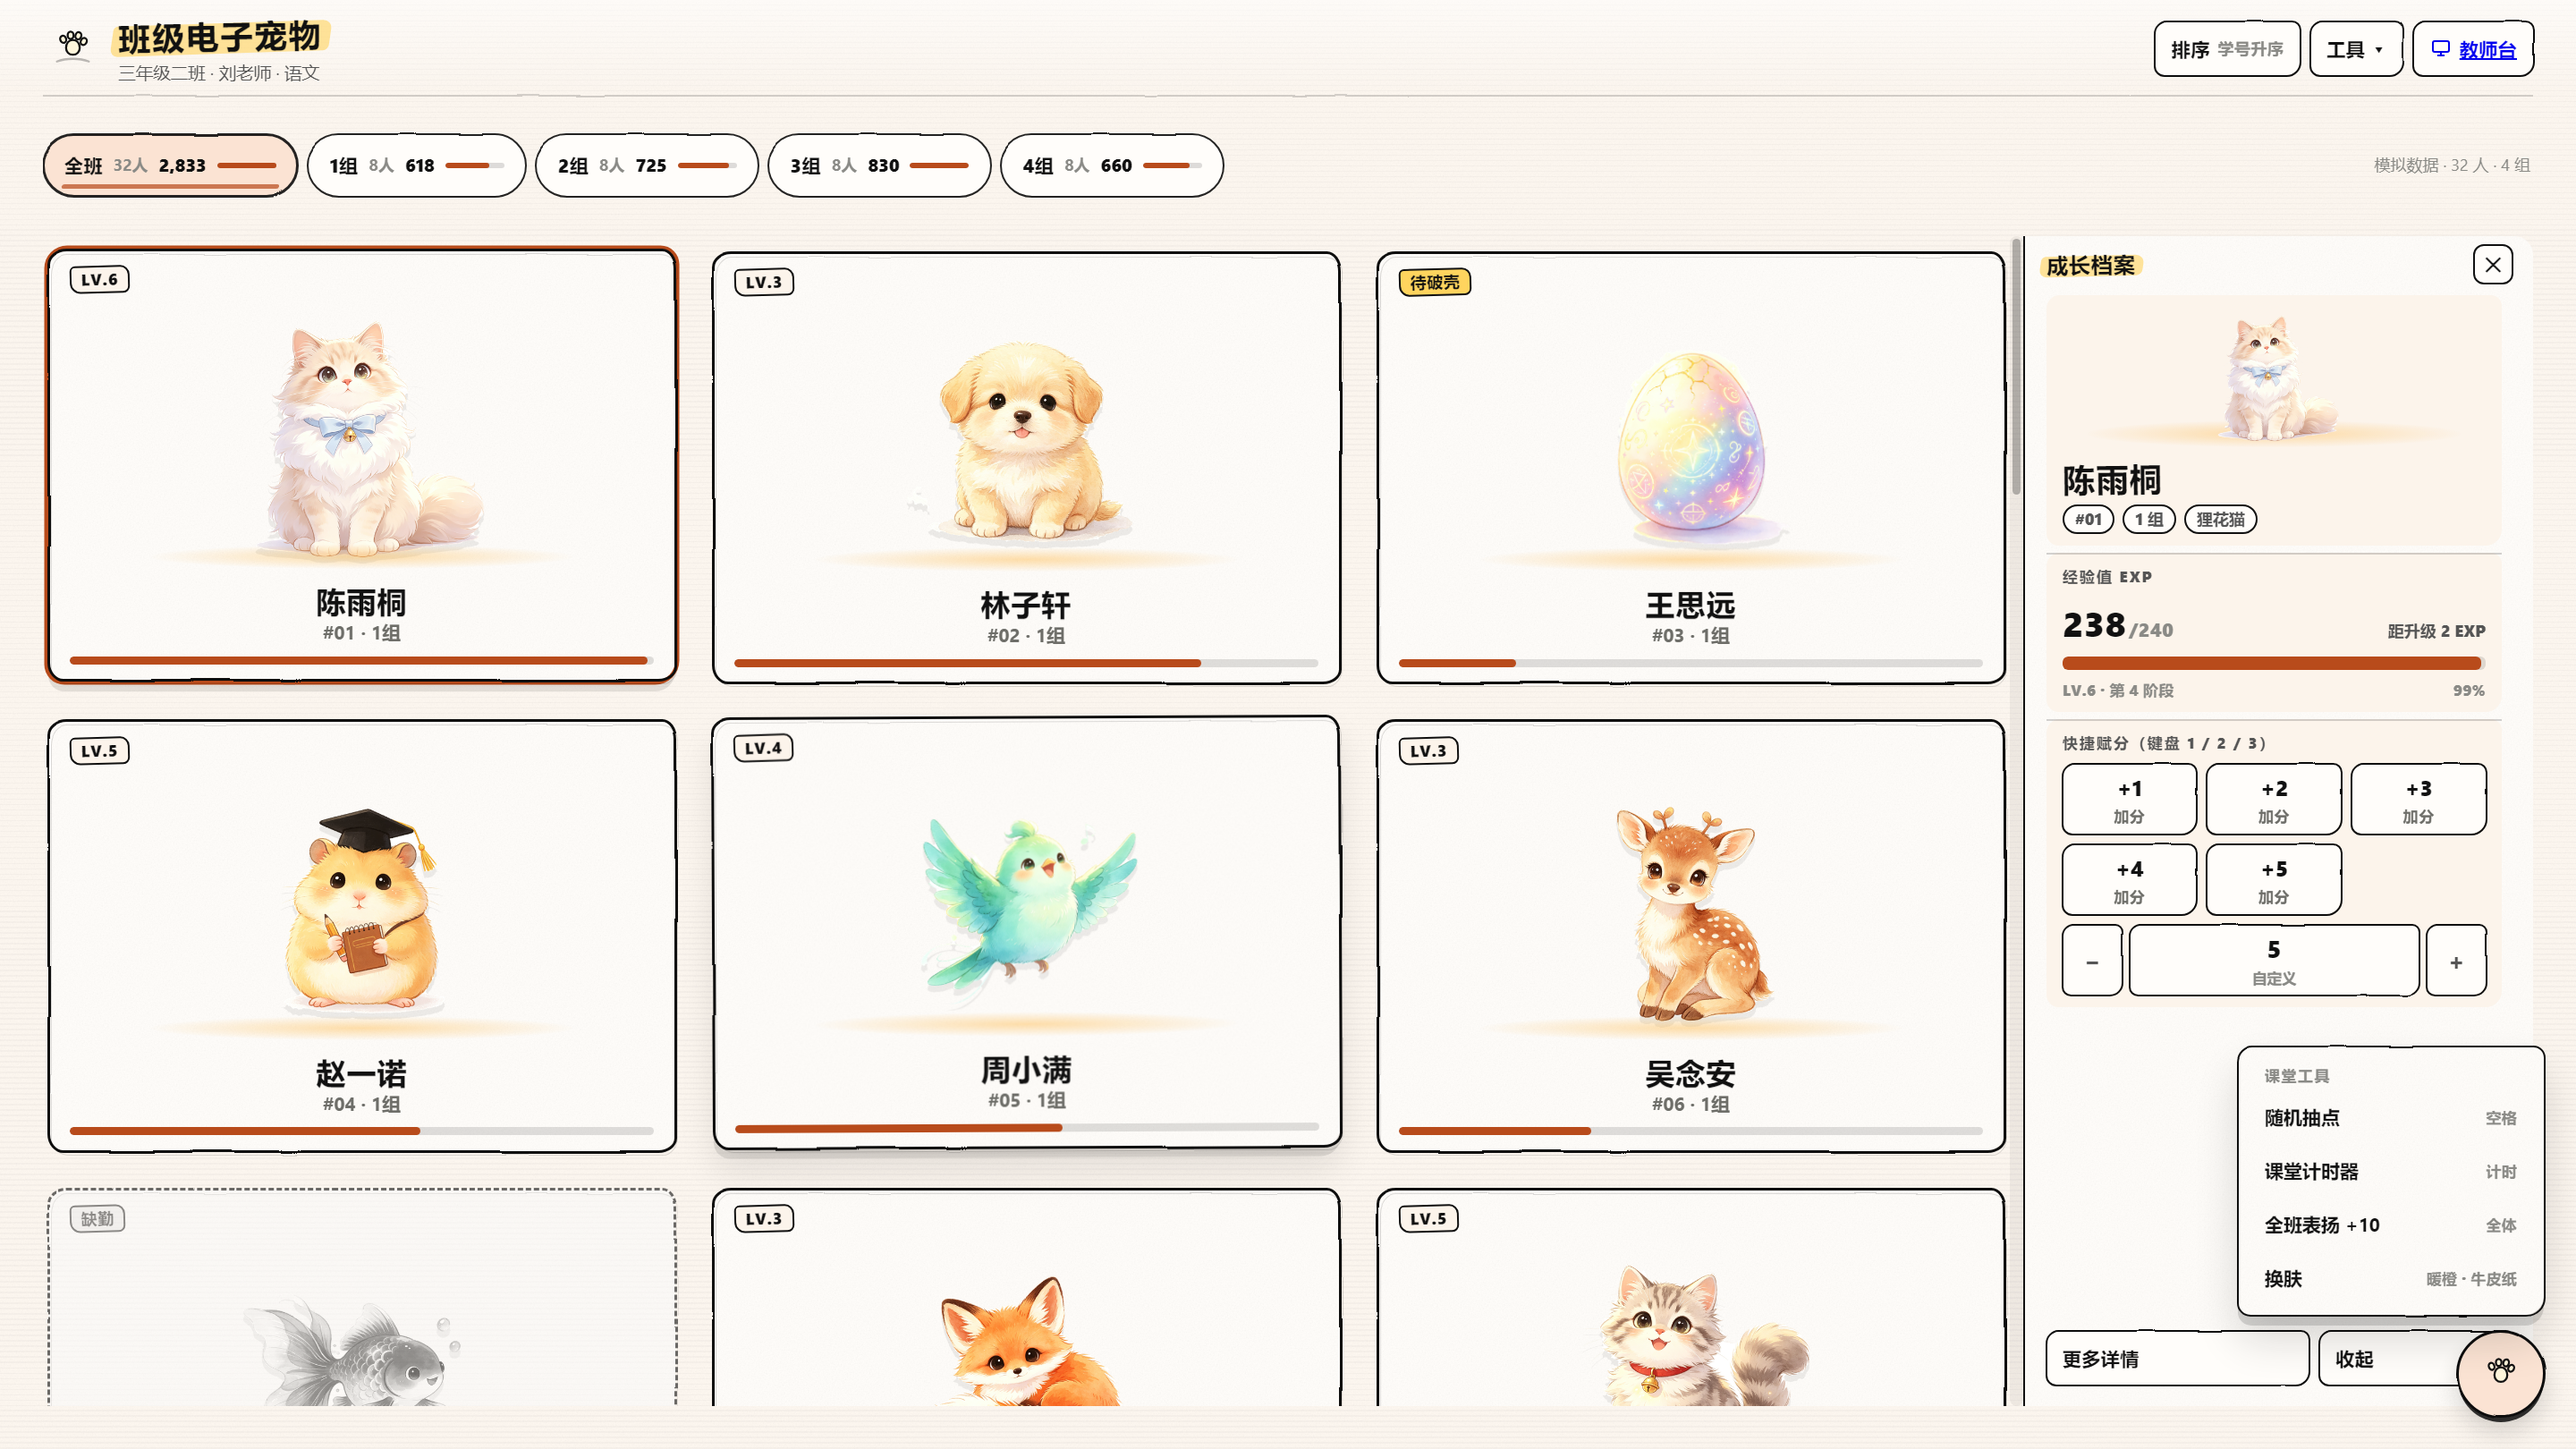
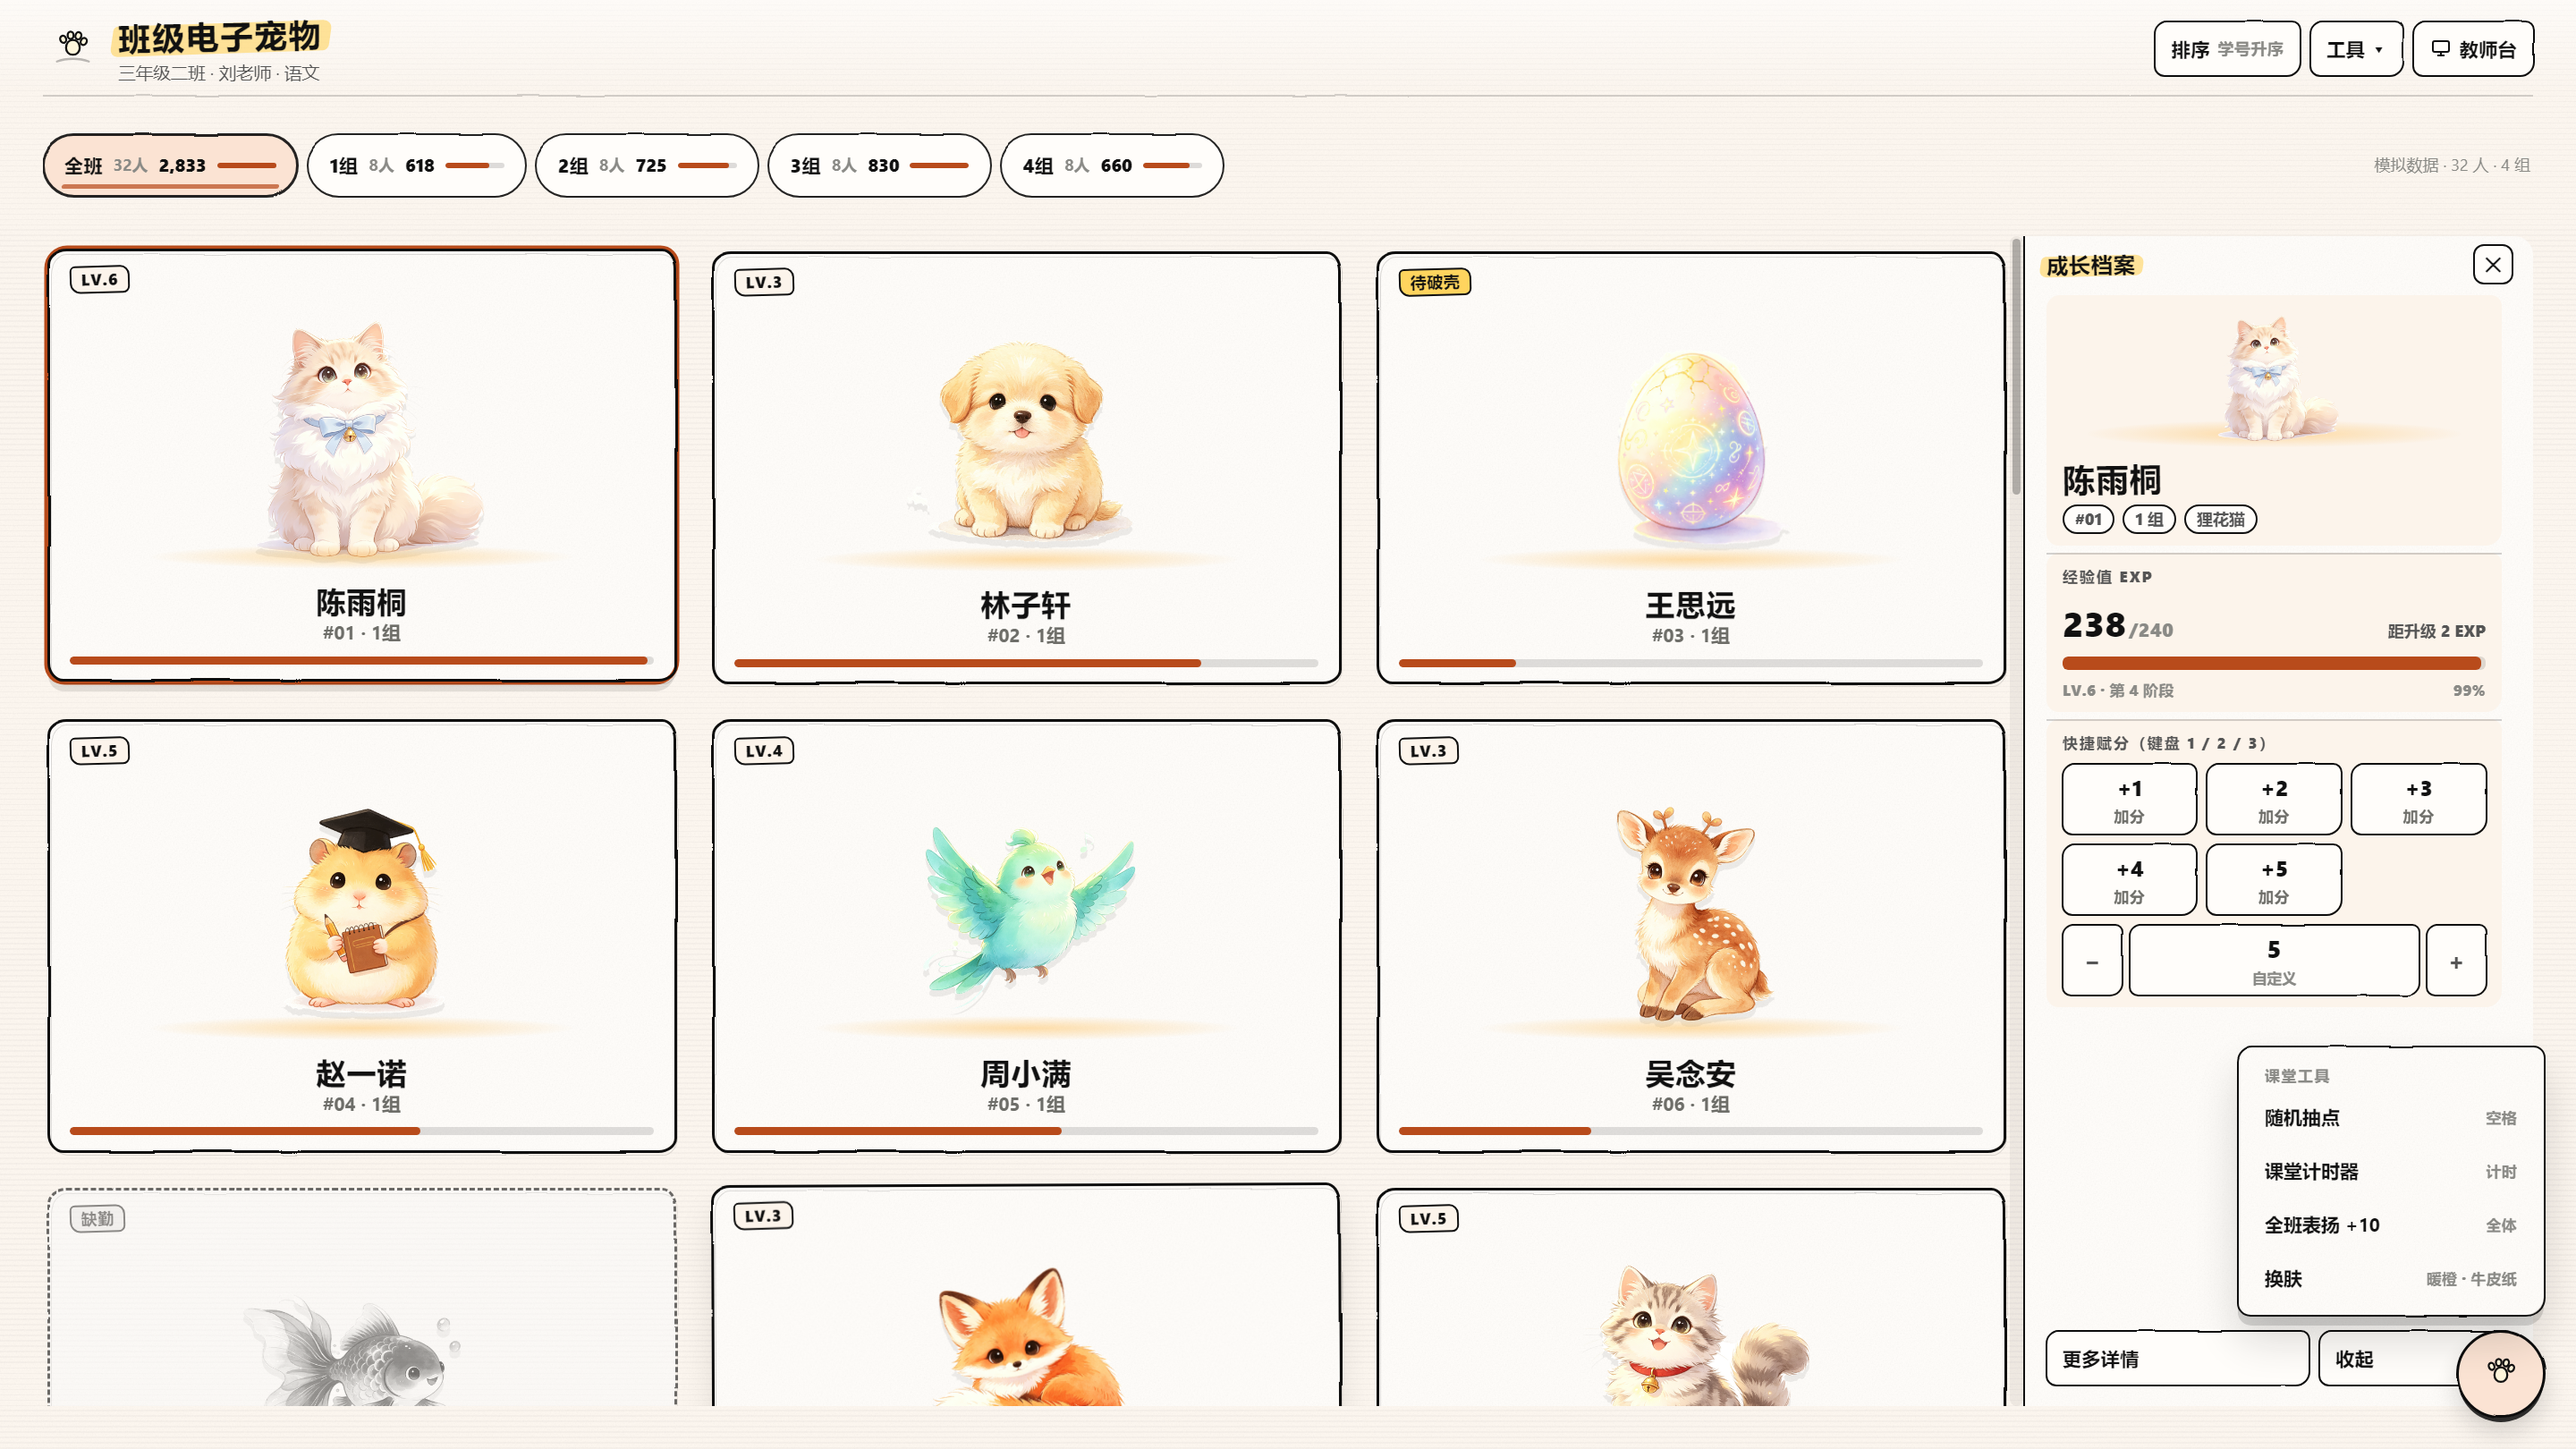
fix(v3): teacher link inherits ink colour; deepen paper styling on the teacher console
- .btn now sets color:var(--ink) and text-decoration:none, so the 教师台 anchor no longer renders as a blue UA link (verified rgb(17,17,17))
- teacher cards: asymmetric hand-drawn radius, alternating micro-rotation, hover lift and selected ring matching the student page
- scoring buttons get the ink wobble outline; dock gets paper grain and asymmetric corners

diff --git a/design/v3_teacher_desk.html b/design/v3_teacher_desk.html
@@ -773,6 +773,43 @@ body{ background:var(--paper) }
 .dock-sec .sec-title{ display:inline-block; padding:0 2px;
   background:linear-gradient(transparent 64%, var(--accent-soft) 64%, var(--accent-soft) 94%, transparent 94%); }
 </style>
+<style>
+/* —— Looseleaf 纸感对齐（第二层）：卡片手绘感 / 赋分按钮墨线 / 赋分台纸边 —— */
+.lanes .stu-row{
+  position:relative;
+  border-radius:14px 11px 15px 12px !important;
+  box-shadow:0 3px 0 rgba(17,17,17,.14) !important;
+  transition:transform .16s ease, box-shadow .18s ease, background-color .16s linear !important;
+}
+.lanes .stu-row:nth-child(3n){ transform:rotate(-.28deg); }
+.lanes .stu-row:nth-child(3n+1){ transform:rotate(.18deg); }
+.lanes .stu-row:hover{
+  transform:translateY(-4px) rotate(0deg) !important;
+  box-shadow:0 7px 0 rgba(17,17,17,.16), 0 14px 24px rgba(17,17,17,.10) !important;
+}
+.lanes .stu-row.is-selected,
+.lanes .stu-row.selected{
+  box-shadow:0 0 0 3px var(--accent), 0 4px 0 rgba(17,17,17,.9) !important;
+}
+.lanes .chk-box{ border-radius:7px 5px 8px 6px !important; }
+.lanes .stu-more{ border-radius:9px 7px 10px 8px !important; }
+
+.dock{
+  border-radius:18px 0 0 16px;
+  background-image:var(--grain) !important; background-size:140px 140px !important;
+}
+.score-btn{
+  position:relative; border-color:transparent !important;
+  border-radius:12px 9px 13px 10px !important;
+  background-image:var(--grain); background-size:140px 140px;
+}
+.score-btn::before{
+  content:''; position:absolute; inset:-1px; pointer-events:none;
+  border:1.5px solid var(--ink); border-radius:inherit; filter:url(#inkWobSm);
+}
+.score-btn .val{ border-radius:8px 6px 9px 7px; }
+.dock-sec .sec-title{ transform:rotate(-.4deg); }
+</style>
 </head>
 <body>
 <svg aria-hidden="true" focusable="false" style="position:absolute;width:0;height:0;overflow:hidden">

diff --git a/scripts/probe_style.js b/scripts/probe_style.js
@@ -1,0 +1,24 @@
+const { app, BrowserWindow } = require('electron');
+const path = require('path'); const fs = require('fs');
+const ROOT = path.join(__dirname, '..');
+app.setPath('userData', path.join(process.env.TEMP || '.', 'cp-style-' + Date.now()));
+app.commandLine.appendSwitch('disable-gpu'); app.commandLine.appendSwitch('no-sandbox');
+const sleep = ms => new Promise(r => setTimeout(r, ms));
+app.whenReady().then(async () => {
+  const out = {};
+  for (const f of ['v3_looseleaf_paper.html','v3_teacher_desk.html']) {
+    const win = new BrowserWindow({ width: 1920, height: 1080, show: false, webPreferences: { contextIsolation: true, backgroundThrottling: false } });
+    win.setContentSize(1920,1080);
+    const js = c => win.webContents.executeJavaScript(c, true);
+    await win.loadURL('file://' + path.join(ROOT, 'design', f).replace(/\\/g, '/'));
+    await sleep(1400);
+    if (f.indexOf('paper') >= 0) {
+      out.link = await js(`(function(){var a=document.getElementById('btn-teacher');var cs=getComputedStyle(a);return {color:cs.color,decoration:cs.textDecorationLine,border:cs.borderTopWidth+' '+cs.borderTopColor};})()`);
+    } else {
+      out.teacher = await js(`(function(){var r=document.querySelector('.stu-row');var cs=getComputedStyle(r);var b=document.querySelector('.score-btn');var bs=b?getComputedStyle(b):null;var d=document.getElementById('dock');return {radius:cs.borderTopLeftRadius,shadow:cs.boxShadow,transform:cs.transform,scoreBefore:getComputedStyle(b,'::before').borderTopWidth,scoreRadius:bs?bs.borderTopLeftRadius:null,dockGrain:(d?getComputedStyle(d).backgroundImage:'').indexOf('svg')>=0};})()`);
+    }
+    win.close();
+  }
+  fs.writeFileSync(path.join(ROOT,'screenshots_v3','style_check.json'), JSON.stringify(out,null,2));
+  console.log('done'); app.quit();
+});

diff --git a/design/v3_looseleaf_paper.html b/design/v3_looseleaf_paper.html
@@ -135,7 +135,7 @@ ul{margin:0;padding:0;list-style:none}
 /* 手绘按钮 */
 .btn{
   position:relative;height:40px;padding:0 var(--s3);display:inline-flex;align-items:center;gap:6px;
-  font-size:var(--t-md);font-weight:700;letter-spacing:.02em;background:var(--surface);
+  font-size:var(--t-md);font-weight:700;letter-spacing:.02em;background:var(--surface);color:var(--ink);text-decoration:none;
   border-radius:var(--r-btn) 7px 11px 8px;white-space:nowrap;
   transition:transform .12s ease, background-color .16s linear;
 }
